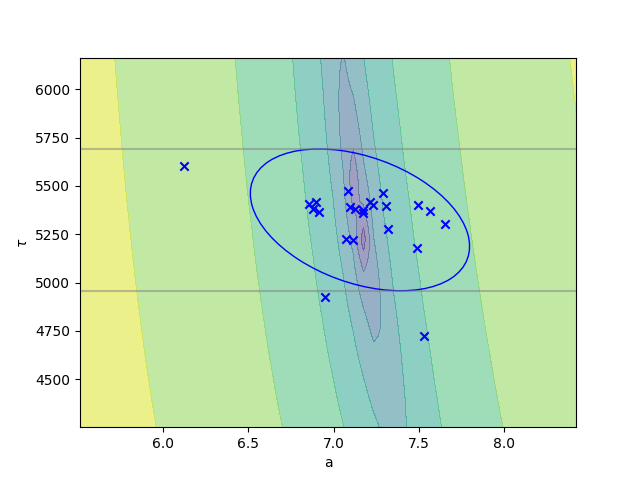
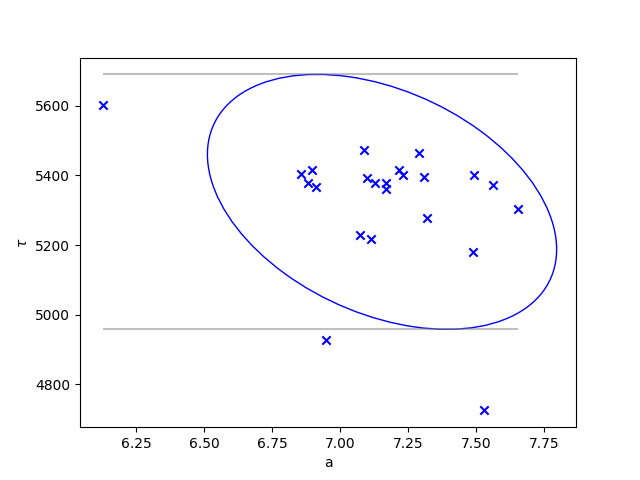
Modified Ellipse plot and method

diff --git a/LifetimeExecutor/LifeTimeCalculator/RegressionExp.py b/LifetimeExecutor/LifeTimeCalculator/RegressionExp.py
@@ -84,18 +84,8 @@ class StatisticalSummary:
         :param a_arr: np.ndarray. The a values from the exponential fit.
         :param tau_arr: np.ndarray. The tau values from the exponential fit.
         """
-        x = np.arange(1000)
 
         fig, ax = plt.subplots()
-        da = 0.1
-        A, B = np.meshgrid(
-            np.linspace(np.min(a_arr) * (1 - da), np.max(a_arr) * (1 + da), 50),
-            np.linspace(np.min(tau_arr) * (1 - da), np.max(tau_arr) * (1 + da), 50),
-        )
-        y = np.mean(a_arr) * np.exp(-x / np.mean(tau_arr))
-        r2 = np.sum((y - A[:, :, None] * np.exp(-x / B[:, :, None])) ** 2, axis=2)
-        r2 = np.log(r2)
-        ax.contourf(A, B, r2, alpha=0.5)
         for a_, b_ in zip(a_arr, tau_arr):
             ax.scatter(a_, b_, c="b", marker="x")
         ax_patch, b_center, b_deviation = cls.confidence_ellipse(
@@ -103,15 +93,15 @@ class StatisticalSummary:
         )
         ax.hlines(
             b_center - b_deviation,
-            xmin=np.min(A[:, :, None]),
-            xmax=np.max(A[:, :, None]),
+            xmin=np.min(a_arr),
+            xmax=np.max(a_arr),
             color="gray",
             alpha=0.5,
         )
         ax.hlines(
             b_center + b_deviation,
-            xmin=np.min(A[:, :, None]),
-            xmax=np.max(A[:, :, None]),
+            xmin=np.min(a_arr),
+            xmax=np.max(a_arr),
             color="gray",
             alpha=0.5,
         )
